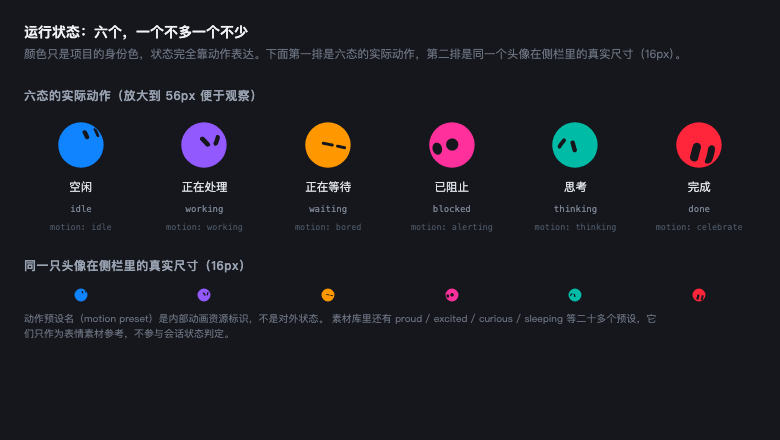
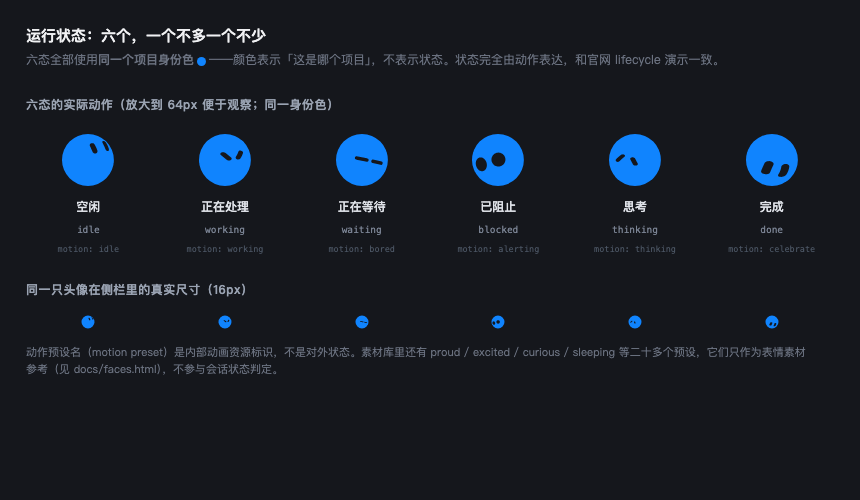
docs: correct completion lifecycle, waiting sources and surface limits
- README documents viewedAt vs consumedAt, the fallback completion cycle and
  its generation rule, and states plainly that the generation counter lives in
  page memory, so strict de-duplication across a reload or host restart does
  not hold.
- waiting sources corrected: the projection covers timed asks only; blocking
  ask_user_question / exit_plan_mode are observable as an unfinished tool
  call. Documents the raw-state vs wire-view distinction that caused the bug.
- Surface table now says what was actually verified for this DSH build:
  sidebar rows carry data-row-key; search result rows do not; the hover card
  is portaled to body with sessionId as a React parameter only. Both gaps are
  listed as host-dependency work with the minimal contract that would unblock
  them, not as done.
- Adds an evidence-boundary section: a matching widget.js hash proves only
  that the server serves the new bundle, not that the host loaded it or that
  the renderer executed it.
- docs/states.png and docs/states.html regenerated from the maintained page:
  six states in ONE project identity color, so the figure no longer implies
  color encodes state.
- docs/faces.png and docs/faces.html relabeled as expression material: the
  39 preset names are motion resources, explicitly not runtime states.

diff --git a/docs/states.html b/docs/states.html
@@ -1,35 +1,40 @@
 <!DOCTYPE html><html lang="zh-CN"><head><meta charset="utf-8"><style>
- body{margin:0;padding:22px 24px 30px;background:#15171c;color:#e8e8ea;font:13px/1.5 -apple-system,"PingFang SC",sans-serif}
- h1{font-size:14px;font-weight:600;margin:0 0 3px;color:#f0f1f3}
- .sub{font-size:11.5px;color:#6b7280;margin:0 0 6px}
- h2{font-size:12px;font-weight:600;color:#9aa3b2;margin:24px 0 12px;letter-spacing:.04em}
- .grid{display:grid;grid-template-columns:repeat(6,1fr);gap:22px 10px}
+ body{margin:0;padding:24px 26px 32px;background:#15171c;color:#e8e8ea;font:13px/1.55 -apple-system,"PingFang SC",sans-serif}
+ h1{font-size:15px;font-weight:600;margin:0 0 4px;color:#f0f1f3}
+ .sub{font-size:12px;color:#6b7280;margin:0 0 4px;max-width:780px}
+ h2{font-size:12px;font-weight:600;color:#9aa3b2;margin:26px 0 14px;letter-spacing:.04em}
+ .grid{display:grid;grid-template-columns:repeat(6,1fr);gap:24px 12px}
  .cell{display:flex;flex-direction:column;align-items:center;gap:6px}
- .box{width:56px;height:56px;display:flex;align-items:center;justify-content:center}
+ .box{width:64px;height:64px;display:flex;align-items:center;justify-content:center}
  .box.small{width:16px;height:16px}
- .n{font-size:11.5px;color:#dfe2e8}
- .k{font-size:9px;color:#7b8494;font-family:ui-monospace,Menlo,monospace}
- .c{font-size:8.5px;color:#4b5563;font-family:ui-monospace,Menlo,monospace;text-align:center;line-height:1.3}
- .note{font-size:10px;color:#6b7280;margin:8px 0 0;max-width:640px}
- .row{display:flex;gap:26px;align-items:flex-end;margin-top:6px}
+ .n{font-size:12px;color:#dfe2e8;font-weight:500}
+ .k{font-size:9.5px;color:#7b8494;font-family:ui-monospace,Menlo,monospace}
+ .c{font-size:8.5px;color:#4b5563;font-family:ui-monospace,Menlo,monospace;text-align:center;line-height:1.35}
+ .note{font-size:11px;color:#6b7280;margin:14px 0 0;max-width:780px;line-height:1.6}
+ .ink{display:inline-block;width:9px;height:9px;border-radius:50%;vertical-align:middle;margin:0 3px}
+ .row{display:flex;gap:0;align-items:flex-start}
 </style></head><body>
 <h1>运行状态：六个，一个不多一个不少</h1>
-<p class="sub">颜色只是项目的身份色，状态完全靠动作表达。下面第一排是六态的实际动作，第二排是同一个头像在侧栏里的真实尺寸（16px）。</p>
+<p class="sub">六态全部使用<strong>同一个项目身份色</strong><span class="ink" style="background:#1084fe"></span>——颜色表示「这是哪个项目」，不表示状态。状态完全由动作表达，和官网 lifecycle 演示一致。</p>
 <div id="root"></div>
-<p class="note">动作预设名（motion preset）是内部动画资源标识，不是对外状态。
-素材库里还有 proud / excited / curious / sleeping 等二十多个预设，它们只作为表情素材参考，不参与会话状态判定。</p>
+<p class="note">动作预设名（motion preset）是内部动画资源标识，不是对外状态。素材库里还有 proud / excited / curious / sleeping 等二十多个预设，它们只作为表情素材参考（见 docs/faces.html），不参与会话状态判定。</p>
 <script type="module">
 import { TB_EXPRESSIONS, TB_SHAPES, TB_STATES } from '../src/grokbot/data.js'
 import { createBot, runBot } from '../src/grokbot/engine.js'
 
+// 六态 → 动作预设（与 src/mapping.js 的 PHASE_TO_MOTION 一致）
 const PHASES = [
-  ['idle', 'idle', '空闲', '#1084fe'],
-  ['working', 'working', '正在处理', '#9159fe'],
-  ['waiting', 'bored', '正在等待', '#ff9800'],
-  ['blocked', 'alerting', '已阻止', '#ff309b'],
-  ['thinking', 'thinking', '思考', '#00bca6'],
-  ['done', 'celebrate', '完成', '#ff263c'],
+  ['idle', 'idle', '空闲'],
+  ['working', 'working', '正在处理'],
+  ['waiting', 'bored', '正在等待'],
+  ['blocked', 'alerting', '已阻止'],
+  ['thinking', 'thinking', '思考'],
+  ['done', 'celebrate', '完成'],
 ]
+
+// 同一个项目身份色：六态共用，证明颜色不承担状态
+const PROJECT_INK = '#1084fe'
+const SURFACE = '#15171c'
 
 const root = document.getElementById('root')
 
@@ -43,12 +48,12 @@ function grid(title) {
   return g
 }
 
-function render(target, phase, motion, label, ink, size) {
+function render(target, phase, motion, label, size) {
   const cell = document.createElement('div')
   cell.className = 'cell'
   const box = document.createElement('div')
   box.className = size === 16 ? 'box small' : 'box'
-  const inst = createBot({ shape: TB_SHAPES.blob, bodyFill: ink, eyeFill: '#15171c', size: size })
+  const inst = createBot({ shape: TB_SHAPES.blob, bodyFill: PROJECT_INK, eyeFill: SURFACE, size: size })
   inst.state = motion
   box.appendChild(inst.svg)
   runBot(inst, { expressions: TB_EXPRESSIONS, states: TB_STATES, reduced: false })
@@ -68,10 +73,10 @@ function render(target, phase, motion, label, ink, size) {
   target.appendChild(cell)
 }
 
-const big = grid('六态的实际动作（放大到 56px 便于观察）')
-for (const [phase, motion, label, ink] of PHASES) render(big, phase, motion, label, ink, 56)
+const big = grid('六态的实际动作（放大到 64px 便于观察；同一身份色）')
+for (const [phase, motion, label] of PHASES) render(big, phase, motion, label, 64)
 
 const small = grid('同一只头像在侧栏里的真实尺寸（16px）')
-for (const [phase, motion, label, ink] of PHASES) render(small, phase, motion, label, ink, 16)
+for (const [phase, motion, label] of PHASES) render(small, phase, motion, label, 16)
 </script>
 </body></html>

diff --git a/docs/faces.html b/docs/faces.html
@@ -1,42 +1,49 @@
 <!DOCTYPE html><html lang="zh-CN"><head><meta charset="utf-8"><style>
- body{margin:0;padding:20px 22px;background:#15171c;color:#e8e8ea;font:13px/1.4 -apple-system,"PingFang SC",sans-serif}
- .grid{display:grid;grid-template-columns:repeat(4,1fr);gap:14px 10px}
- .cell{display:flex;flex-direction:column;align-items:center;gap:7px}
- .box{width:44px;height:44px;display:flex;align-items:center;justify-content:center}
- .n{font-size:11.5px;color:#c9cdd6}
- .k{font-size:9.5px;color:#6b7280;font-family:ui-monospace,Menlo,monospace}
+ body{margin:0;padding:22px 24px 28px;background:#15171c;color:#e8e8ea;font:13px/1.5 -apple-system,"PingFang SC",sans-serif}
+ h1{font-size:14px;font-weight:600;margin:0 0 4px;color:#f0f1f3}
+ .sub{font-size:11.5px;color:#8b93a1;margin:0 0 6px;max-width:760px}
+ h2{font-size:12px;font-weight:600;color:#9aa3b2;margin:22px 0 12px;letter-spacing:.04em}
+ .grid{display:grid;grid-template-columns:repeat(8,1fr);gap:14px 8px}
+ .cell{display:flex;flex-direction:column;align-items:center;gap:5px}
+ .box{width:40px;height:40px;display:flex;align-items:center;justify-content:center}
+ .n{font-size:10.5px;color:#c9cdd6}
+ .note{font-size:11px;color:#6b7280;margin:14px 0 0;max-width:780px;line-height:1.6}
 </style></head><body>
-<div class="grid" id="g"></div>
-<script>
-(function () {
-  const MAP = [['空闲', 'idle'], ['思考', 'thinking'], ['正在处理', 'working'],
-               ['正在等待', 'waiting'], ['已阻止', 'blocked'], ['完成', 'done']];
-  const sessions = [];
-  const g = document.getElementById('g');
-  for (const [label, phase] of MAP) {
-    sessions.push({ id: phase, phase: phase, detail: '' });
-    const cell = document.createElement('div'); cell.className = 'cell';
-    const box = document.createElement('div'); box.className = 'box';
-    const row = document.createElement('div');
-    row.setAttribute('data-row-key', 'session:' + phase);
-    row.style.cssText = 'display:flex;align-items:center;justify-content:center';
-    const slot = document.createElement('span');
-    slot.style.cssText = 'width:16px;height:20px;display:inline-flex;align-items:center;justify-content:center';
-    row.appendChild(slot); box.appendChild(row); cell.appendChild(box);
-    const n = document.createElement('div'); n.className = 'n'; n.textContent = label;
-    const k = document.createElement('div'); k.className = 'k'; k.textContent = phase;
-    cell.appendChild(n); cell.appendChild(k); g.appendChild(cell);
-  }
-  window.__GROK_BUDDY_DEMO__ = { now: Date.now(), sessions: sessions };
-  const realFetch = window.fetch;
-  window.fetch = (u, o) => String(u).includes('/dsh-grok-buddy/state.json')
-    ? Promise.resolve(new Response(JSON.stringify(Object.assign({ ok: true }, window.__GROK_BUDDY_DEMO__)), { status: 200 }))
-    : realFetch.call(window, u, o);
-  const s = document.createElement('script');
-  s.src = '../lib/widget.js';
-  document.head.appendChild(s);
-  setInterval(function () {
-    document.querySelectorAll('svg.dsgb-bot').forEach((svg) => { svg.setAttribute('width', '44'); svg.setAttribute('height', '44'); });
-  }, 60);
-})();
-</script></body></html>
+<h1>表情素材参考（不是运行状态）</h1>
+<p class="sub">下面这些是 GrokBot 素材库里的动作预设，用来给六态挑表情池。它们<strong>不是</strong>本插件的业务状态——插件对外只有 idle / working / waiting / blocked / thinking / done 六个。</p>
+<div id="root"></div>
+<p class="note">历史截图里的 sleeping / waking / searching / curious / proud 等名字都属于这一层：表情素材。把它们当成运行状态目录是错的。</p>
+<script type="module">
+import { TB_EXPRESSIONS, TB_SHAPES, TB_STATES } from '../src/grokbot/data.js'
+import { createBot, runBot } from '../src/grokbot/engine.js'
+
+const INK = '#1084fe'
+const SURFACE = '#15171c'
+const names = Object.keys(TB_STATES)
+const root = document.getElementById('root')
+
+const h2 = document.createElement('h2')
+h2.textContent = '素材库预设（' + names.length + ' 个动作预设，与运行状态数量无关）'
+root.appendChild(h2)
+const grid = document.createElement('div')
+grid.className = 'grid'
+root.appendChild(grid)
+
+for (const name of names) {
+  const cell = document.createElement('div')
+  cell.className = 'cell'
+  const box = document.createElement('div')
+  box.className = 'box'
+  const inst = createBot({ shape: TB_SHAPES.blob, bodyFill: INK, eyeFill: SURFACE, size: 40 })
+  inst.state = name
+  box.appendChild(inst.svg)
+  runBot(inst, { expressions: TB_EXPRESSIONS, states: TB_STATES, reduced: true })
+  cell.appendChild(box)
+  const n = document.createElement('div')
+  n.className = 'n'
+  n.textContent = name
+  cell.appendChild(n)
+  grid.appendChild(cell)
+}
+</script>
+</body></html>
